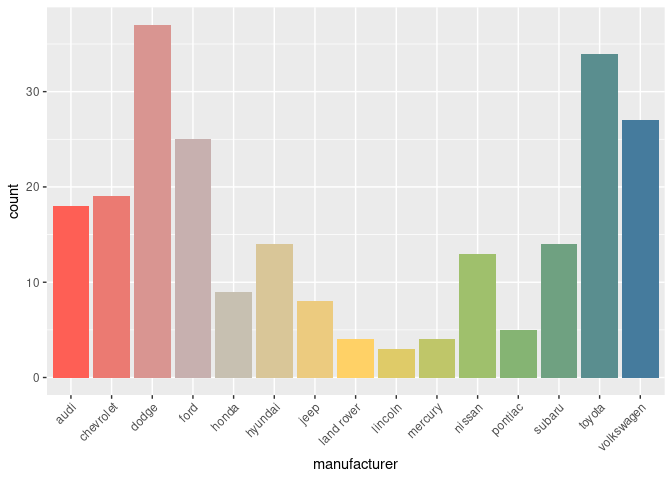
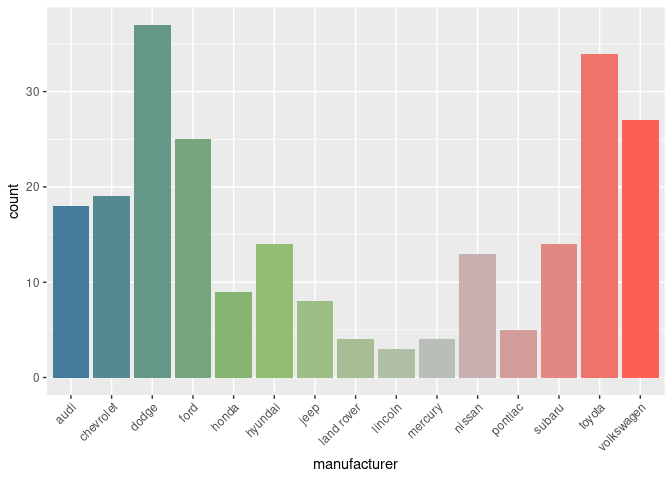
Update readme

Changed region(s): [[0.0625, 0.0312, 1.0, 0.8125]]

diff --git a/README.md b/README.md
@@ -1,0 +1,87 @@
+<div class="cell">
+
+<div class="cell-output-display">
+
+![](README_files/figure-gfm/unnamed-chunk-4-1.png)
+
+</div>
+
+<div class="cell-output-stdout">
+
+    {
+      "full": {
+        "car": ["#fe5f55"],
+        "other": ["#BEBEBE"],
+        "public": ["#ffd166"],
+        "ebike": ["#A9C26B"],
+        "bike": ["#90be6d"],
+        "walk": ["#457b9d"]
+      },
+      "main": {
+        "walk": ["#457b9d"],
+        "bike": ["#90be6d"],
+        "other": ["#BEBEBE"],
+        "car": ["#fe5f55"]
+      },
+      "no_transit": {
+        "walk": ["#457b9d"],
+        "bike": ["#90be6d"],
+        "other": ["#BEBEBE"]
+      },
+      "no_other": {
+        "walk": ["#457b9d"],
+        "bike": ["#90be6d"],
+        "public": ["#ffd166"]
+      }
+    } 
+
+</div>
+
+</div>
+
+<div class="cell">
+
+</div>
+
+<div class="cell">
+
+<div class="cell-output-display">
+
+![](README_files/figure-gfm/unnamed-chunk-8-1.png)
+
+</div>
+
+</div>
+
+Using linear interpolation the palette can be expanded to cover many
+modes. Following the example from Simon, we can create plot of car
+manufacturers with colors adjusting between the main colours as follows.
+
+<div class="cell">
+
+<div class="cell-output-display">
+
+![](README_files/figure-gfm/unnamed-chunk-10-1.png)
+
+</div>
+
+</div>
+
+Although the figure is not supposed to be realistic (are Volkswagens
+really closer to walking than Audis?!) it highlights an important point:
+mode of transport can be seen as a continuous variable from high
+speed/weight/power to active modes such as walking. An electric cargo
+bike is somewhere between a ‘normal’ bike and public/private transport
+options. Thus we can expand the palette:
+
+<div class="cell">
+
+<div class="cell-output-display">
+
+![](README_files/figure-gfm/unnamed-chunk-12-1.png)
+
+</div>
+
+</div>
+
+The above shows the importance of selecting good colours for modes.
